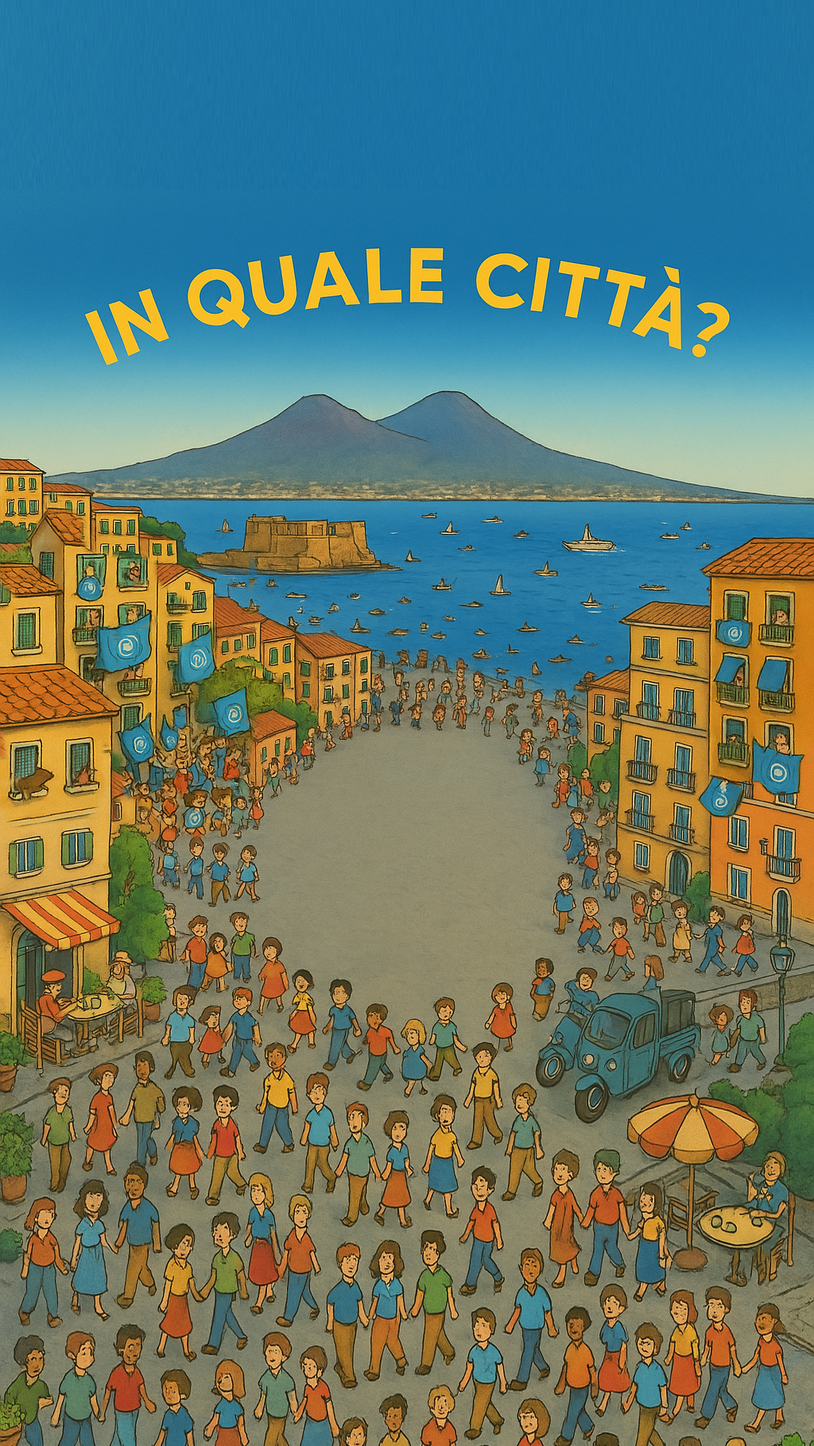
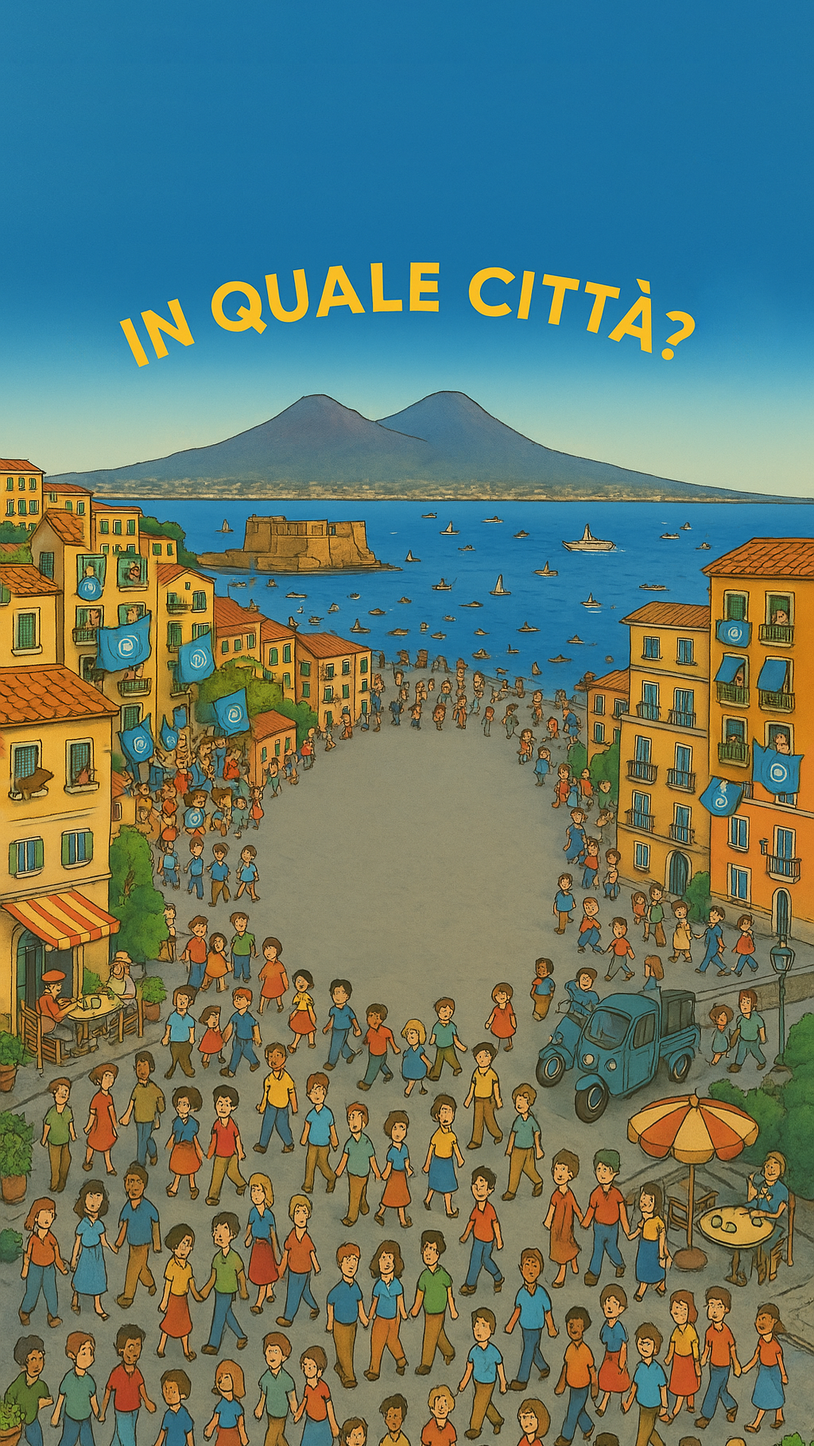
Update background image in Home page
Replit-Commit-Author: Agent
Replit-Commit-Session-Id: 36c2e9e8-fe87-45fb-821e-268bd837deca
Replit-Commit-Screenshot-Url: https://storage.googleapis.com/screenshot-production-us-central1/70bad33f-4b80-4730-98aa-9ab20aa0b2f9/63e054a6-0563-41bc-87ae-22fe9c9009c3.jpg

Changed region(s): [[0.0938, 0.1538, 0.9062, 0.2769]]

diff --git a/client/src/pages/Home.tsx b/client/src/pages/Home.tsx
@@ -110,7 +110,7 @@ export default function Home() {
       <div 
         className="absolute inset-0 w-full h-full"
         style={{ 
-          backgroundImage: 'url(/assets/naples-background-new.png)',
+          backgroundImage: 'url(/assets/naples-background-updated.png)',
           backgroundSize: 'cover',
           backgroundPosition: 'center',
           backgroundRepeat: 'no-repeat'
